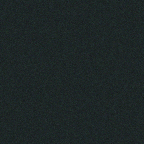
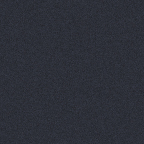
Planning v3

diff --git a/ontrack/war/resources/style/Application.css b/ontrack/war/resources/style/Application.css
@@ -98,8 +98,12 @@ html,body {
 }
 
 .gwt-Tree .gwt-TreeItem.gwt-TreeItem-selected {
-	background-color: #c1e8ee;
-	border: 1px solid #4ec6d6;
+	background-color: #B2C9CC;
+	border: 1px solid #7792A4;
+	
+	background-color: rgba(111, 156, 162, 0.5);
+	border: 1px solid rgba(60, 93, 124, 0.5);
+	
 	margin: 0px;
 }
 
@@ -235,7 +239,7 @@ html,body {
 	padding: 8px;
 	font-weight: normal;
 	cursor: pointer;
-	color: #999999;
+	color: #666;
 	background: #d1d1d1;
 	background-color: #d1d1d1;
 	border-top: 1px solid #999;
@@ -262,7 +266,7 @@ html,body {
 }
 
 .gwt-MenuBar .gwt-MenuItem-selected {
-	background-color: #c1e8ee;
+	background-color: #B2C9CC;
 }
 
 .gwt-MenuBar-breadcrumb .gwt-MenuItem-selected {

diff --git a/ontrack/src/main/java/br/com/oncast/ontrack/client/ui/components/scopetree/widgets/searchbar/SearchScopeFiltrableCommandMenu.java b/ontrack/src/main/java/br/com/oncast/ontrack/client/ui/components/scopetree/widgets/searchbar/SearchScopeFiltrableCommandMenu.java
@@ -11,6 +11,9 @@ import java.util.Arrays;
 import java.util.Collections;
 import java.util.List;
 
+import br.com.oncast.ontrack.client.WidgetVisibilityEnsurer;
+import br.com.oncast.ontrack.client.WidgetVisibilityEnsurer.ContainerAlignment;
+import br.com.oncast.ontrack.client.WidgetVisibilityEnsurer.Orientation;
 import br.com.oncast.ontrack.client.ui.generalwidgets.CommandMenu;
 import br.com.oncast.ontrack.client.ui.generalwidgets.CommandMenuItem;
 import br.com.oncast.ontrack.client.ui.generalwidgets.IncrementalAdditionListener;
@@ -42,7 +45,7 @@ import com.google.gwt.user.client.ui.Composite;
 import com.google.gwt.user.client.ui.FocusPanel;
 import com.google.gwt.user.client.ui.HTMLPanel;
 import com.google.gwt.user.client.ui.Label;
-import com.google.gwt.user.client.ui.ScrollPanel;
+import com.google.gwt.user.client.ui.SimplePanel;
 import com.google.gwt.user.client.ui.TextBox;
 import com.google.gwt.user.client.ui.Widget;
 
@@ -60,7 +63,7 @@ public class SearchScopeFiltrableCommandMenu extends Composite implements HasFoc
 	private static final List<Integer> KEY_DOWN_HANDLED_KEYS = Arrays.asList(new Integer[] { KEY_DOWN, KEY_UP, KEY_TAB });
 
 	@UiField
-	protected ScrollPanel scrollPanel;
+	protected SimplePanel scrollPanel;
 
 	@UiField
 	protected HTMLPanel result;
@@ -75,10 +78,16 @@ public class SearchScopeFiltrableCommandMenu extends Composite implements HasFoc
 	protected HTMLPanel rootPanel;
 
 	@UiField
+	protected HTMLPanel container;
+
+	@UiField
 	protected TextBox filterArea;
 
 	@UiField
 	protected Label resultInfo;
+
+	@UiField
+	protected Label searchIcon;
 
 	private List<CommandMenuItem> itens = new ArrayList<CommandMenuItem>();
 
@@ -114,11 +123,17 @@ public class SearchScopeFiltrableCommandMenu extends Composite implements HasFoc
 	}
 
 	public void focus() {
-		setVisible(true);
+		container.getElement().getStyle().setProperty("width", "auto");
 		filterArea.setFocus(true);
 	}
 
-	@UiHandler({ "searchIcon" })
+	private void hide() {
+		filterArea.setText("");
+		result.setVisible(false);
+		container.getElement().getStyle().clearWidth();
+	}
+
+	@UiHandler("searchIcon")
 	void onSearchIconClick(final ClickEvent event) {
 		focus();
 	}
@@ -152,11 +167,6 @@ public class SearchScopeFiltrableCommandMenu extends Composite implements HasFoc
 		}
 
 		eatEvent(event);
-	}
-
-	private void hide() {
-		filterArea.setText("");
-		result.setVisible(false);
 	}
 
 	@UiHandler("filterArea")
@@ -234,16 +244,8 @@ public class SearchScopeFiltrableCommandMenu extends Composite implements HasFoc
 		final CommandMenuItem selectedItem = menu.getSelectedItem();
 		if (selectedItem == null) return;
 
-		final int menuTop = scrollPanel.getVerticalScrollPosition();
-		final int menuHeight = scrollPanel.getElement().getClientHeight();
-		final int menuBottom = menuTop + menuHeight;
-
-		final int itemTop = selectedItem.getMenuItem().getElement().getOffsetTop();
-		final int itemHeight = selectedItem.getMenuItem().getElement().getOffsetHeight();
-		final int itemBottom = selectedItem.getMenuItem().getElement().getOffsetTop() + itemHeight;
-
-		if (itemTop < menuTop) scrollPanel.setVerticalScrollPosition(itemTop - 1);
-		else if (itemBottom > menuBottom) scrollPanel.setVerticalScrollPosition(itemTop - menuHeight + itemHeight + 3);
+		WidgetVisibilityEnsurer.ensureVisible(selectedItem.getMenuItem().getElement(),
+				scrollPanel.getElement(), Orientation.VERTICAL, ContainerAlignment.BEGIN, 3);
 	}
 
 	private void eatEvent(final DomEvent<?> event) {
